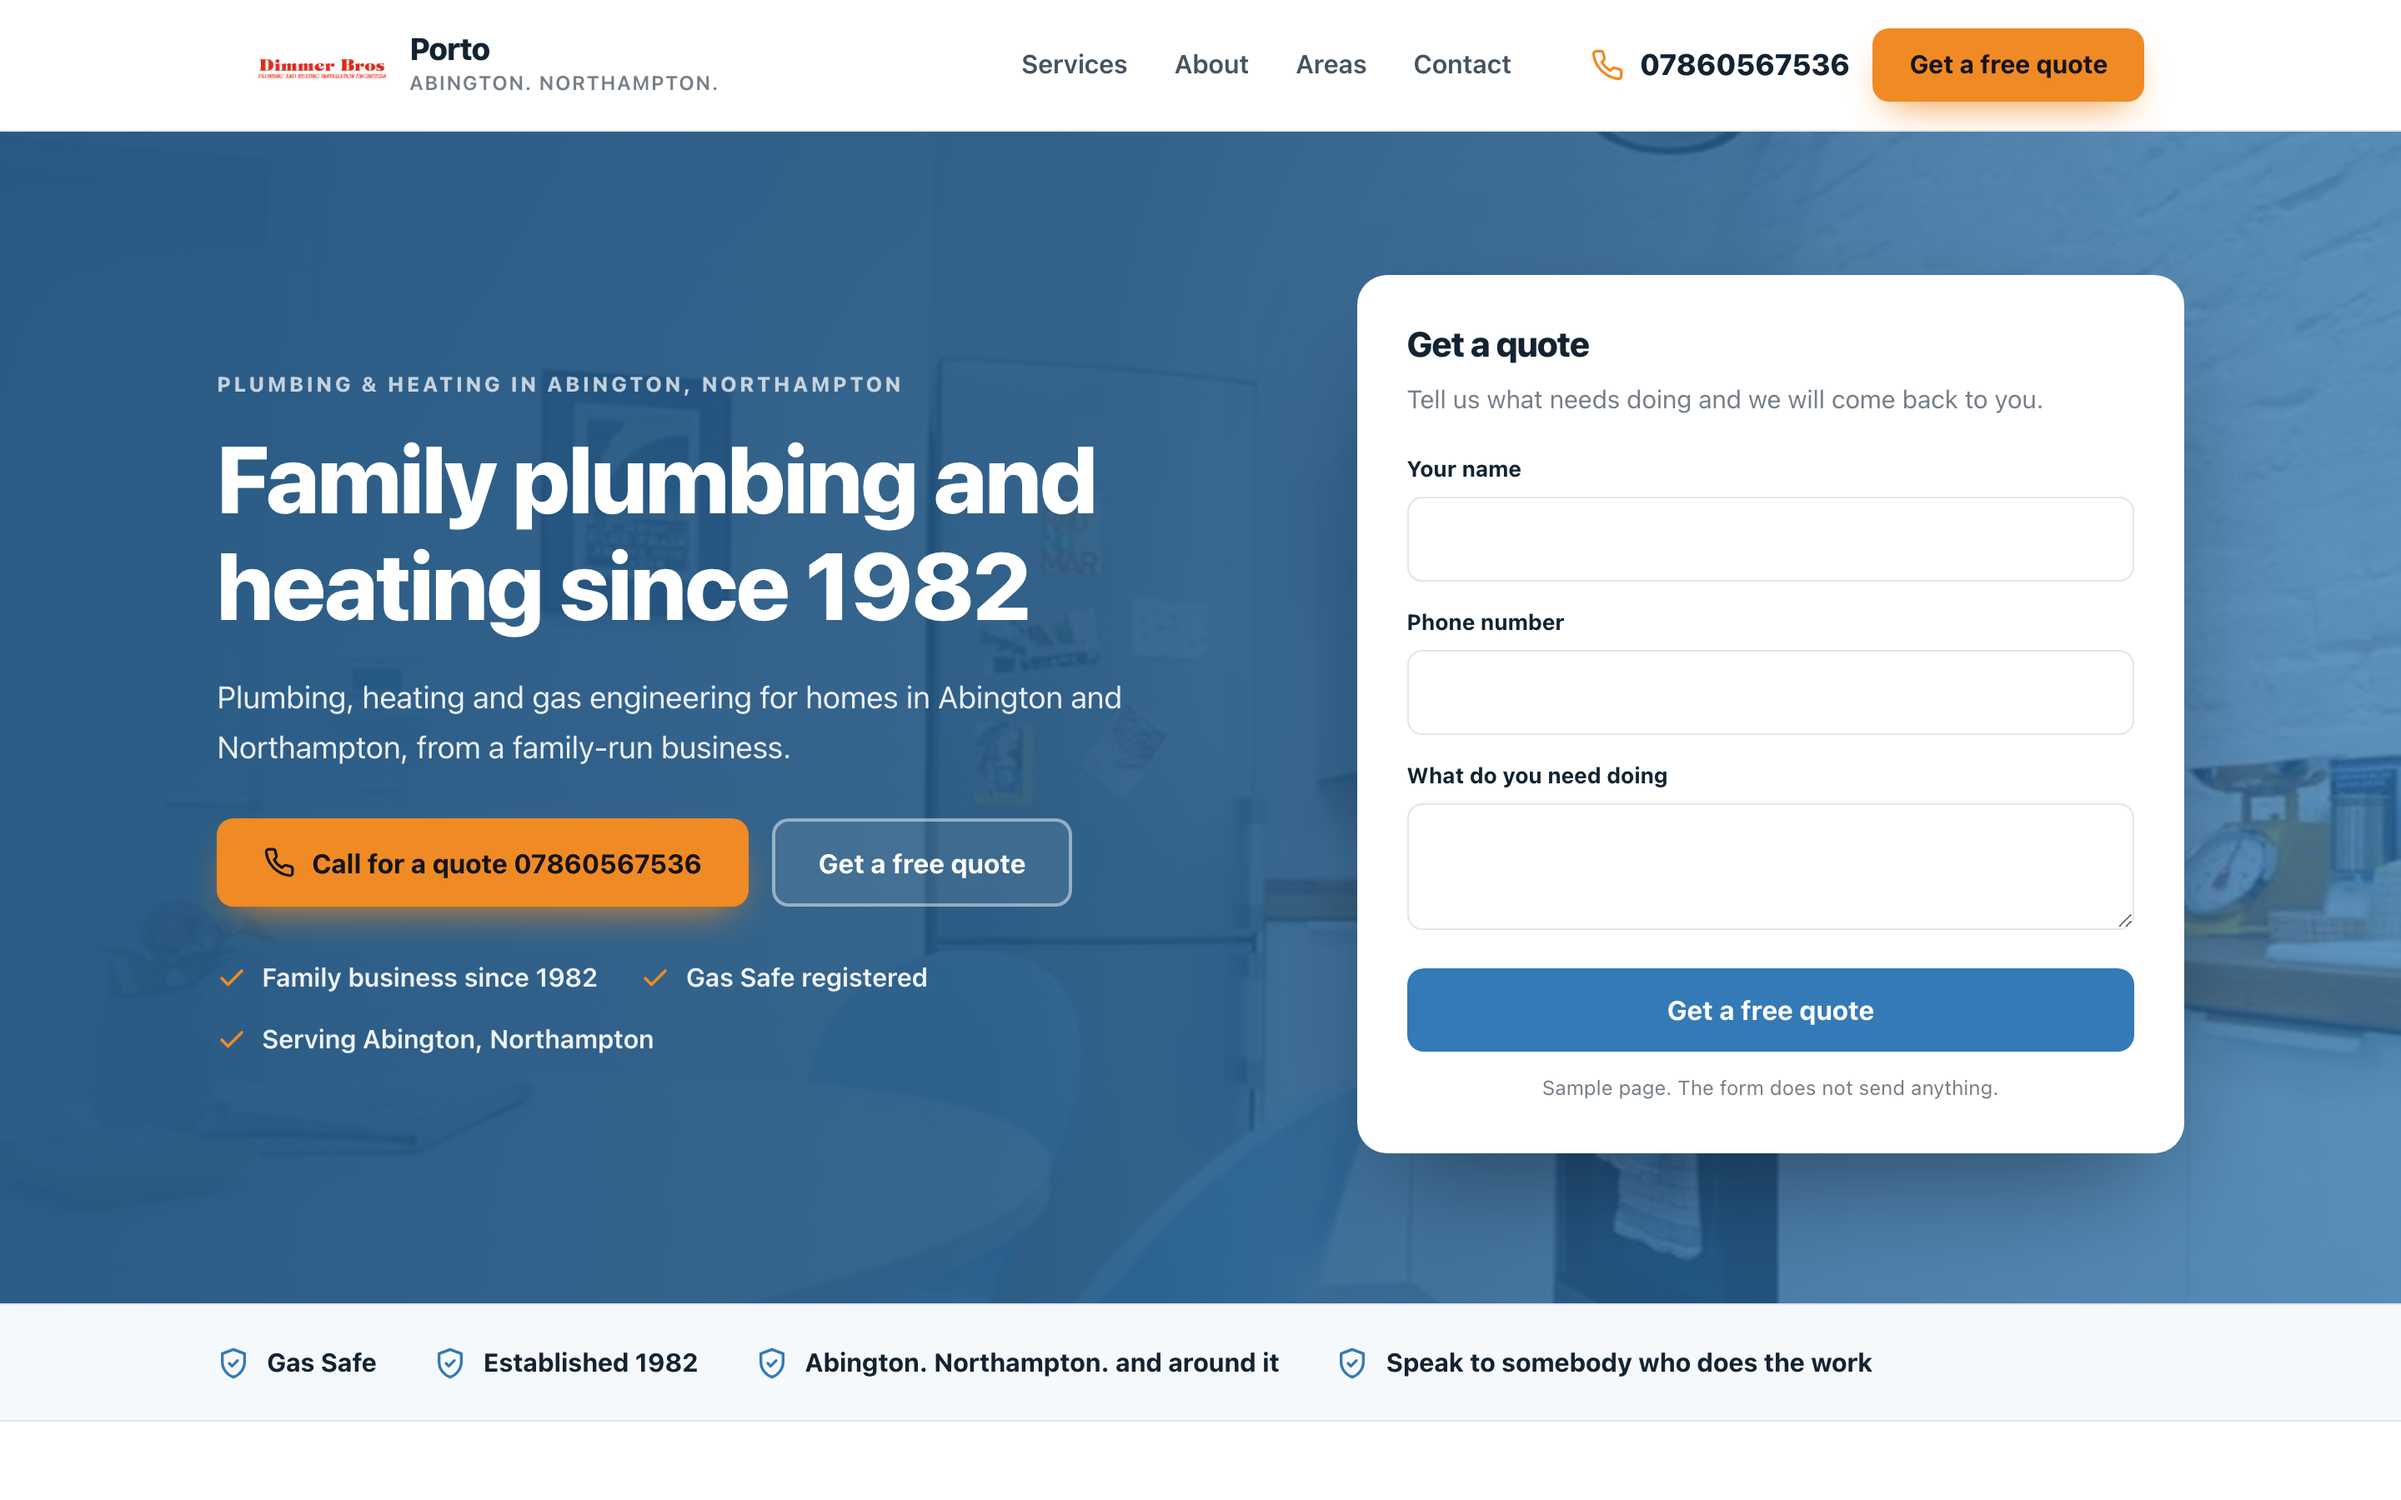
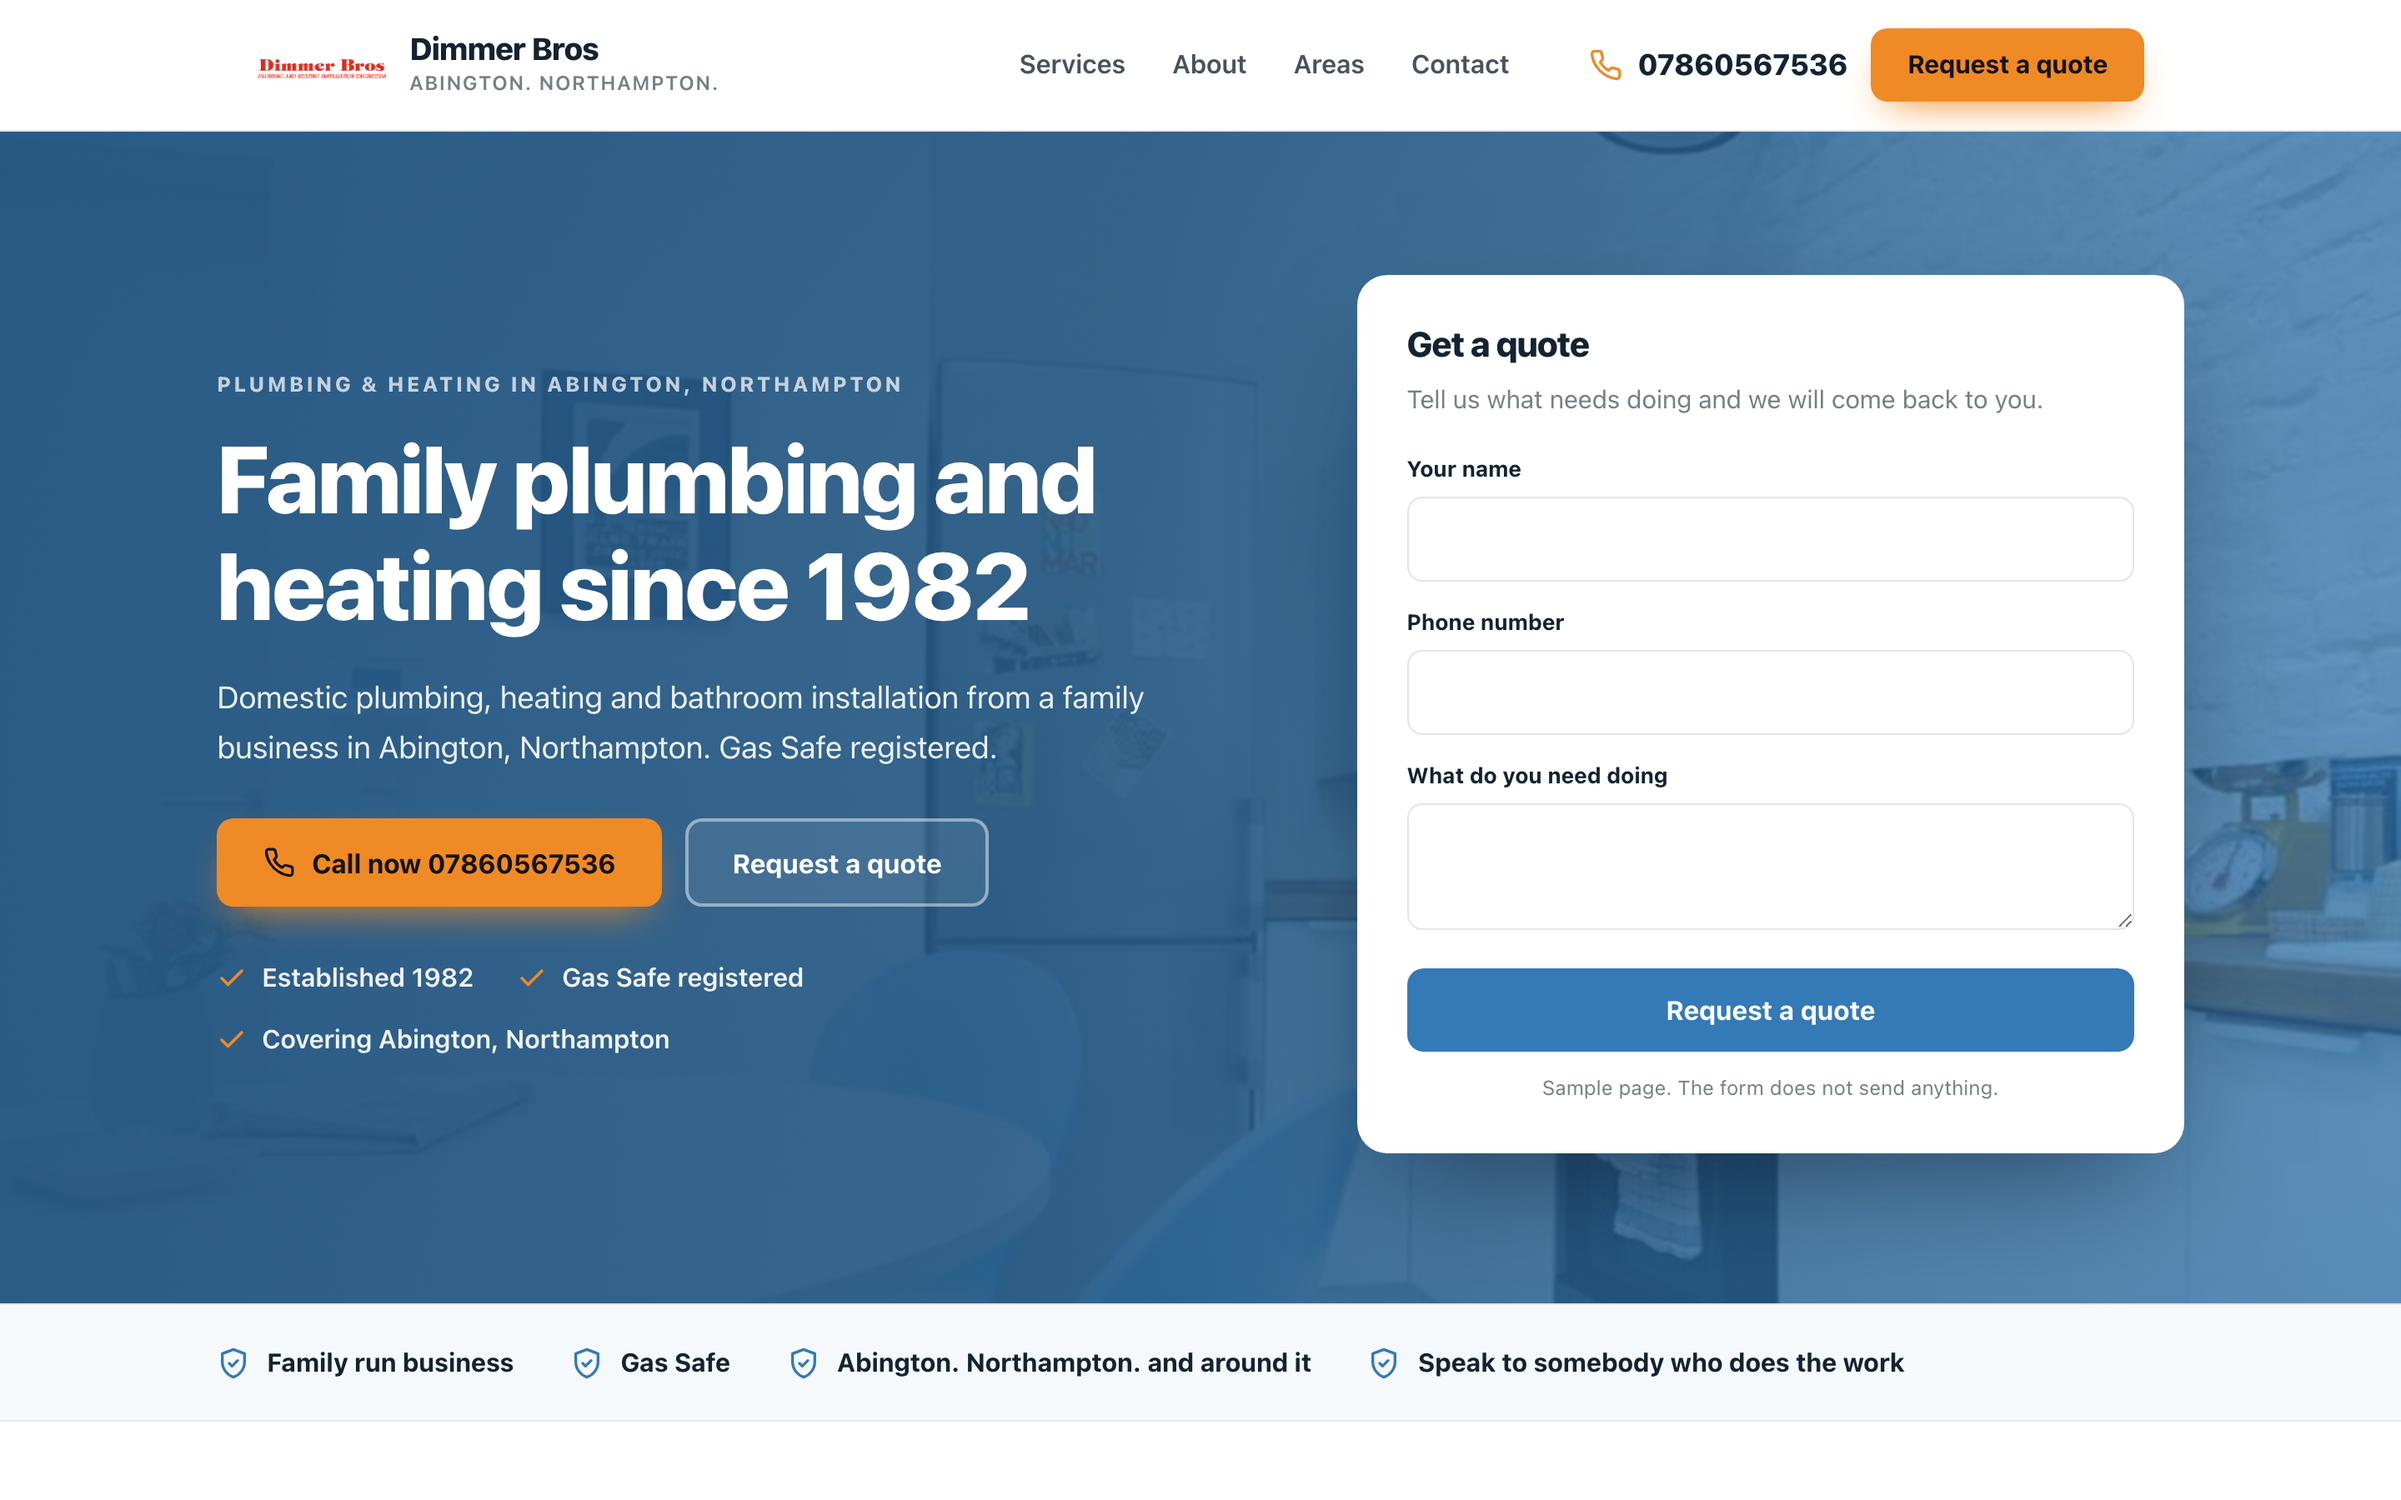
Sample homepage for Dimmer Bros

diff --git a/docs/7939d5610e/index.html b/docs/7939d5610e/index.html
@@ -4,12 +4,12 @@
 <meta charset="utf-8">
 <meta name="viewport" content="width=device-width, initial-scale=1">
 <meta name="robots" content="noindex,nofollow">
-<title>Porto sample homepage</title>
-<meta name="description" content="Plumbing, heating and gas engineering for homes in Abington and Northampton, from a family-run business.">
+<title>Dimmer Bros sample homepage</title>
+<meta name="description" content="Domestic plumbing, heating and bathroom installation from a family business in Abington, Northampton. Gas Safe registered.">
 <link rel="canonical" href="https://markygff.github.io/aso-mockups/7939d5610e/">
 <meta property="og:type" content="website">
-<meta property="og:title" content="Porto sample homepage">
-<meta property="og:description" content="Plumbing, heating and gas engineering for homes in Abington and Northampton, from a family-run business.">
+<meta property="og:title" content="Dimmer Bros sample homepage">
+<meta property="og:description" content="Domestic plumbing, heating and bathroom installation from a family business in Abington, Northampton. Gas Safe registered.">
 <meta property="og:url" content="https://markygff.github.io/aso-mockups/7939d5610e/">
 <meta property="og:image" content="http://www.plumbing-northampton.co.uk/portal/img/demos/construction/slides/homepageimage1.png"><style>
 :root{
@@ -119,8 +119,8 @@ p{margin:0}
 <header class="header">
   <div class="wrap header-in">
     <div class="brand">
-<img src="http://www.plumbing-northampton.co.uk/portal/img/demos/construction/logo-construction.png" alt="Porto logo">      <div>
-        <div class="brand-name">Porto</div>
+<img src="http://www.plumbing-northampton.co.uk/portal/img/demos/construction/logo-construction.png" alt="Dimmer Bros logo">      <div>
+        <div class="brand-name">Dimmer Bros</div>
 <div class="brand-sub">Abington. Northampton.</div>      </div>
     </div>
     <nav class="nav">
@@ -128,24 +128,24 @@ p{margin:0}
     </nav>
     <div class="header-cta">
       <span class="tel"><svg viewBox="0 0 24 24" fill="none" stroke="currentColor" stroke-width="2" stroke-linecap="round" stroke-linejoin="round" aria-hidden="true"><path d="M22 16.9v3a2 2 0 0 1-2.2 2 19.8 19.8 0 0 1-8.6-3.1 19.5 19.5 0 0 1-6-6 19.8 19.8 0 0 1-3.1-8.7A2 2 0 0 1 4.1 2h3a2 2 0 0 1 2 1.7c.1 1 .4 1.9.7 2.8a2 2 0 0 1-.5 2.1L8.1 9.9a16 16 0 0 0 6 6l1.3-1.2a2 2 0 0 1 2.1-.5c.9.3 1.8.6 2.8.7a2 2 0 0 1 1.7 2z"/></svg><span>07860567536</span></span>
-      <span class="btn btn-accent">Get a free quote</span>
+      <span class="btn btn-accent">Request a quote</span>
     </div>
   </div>
 </header>
 
 <section class="hero">
-  <div class="hero-bg"><img src="http://www.plumbing-northampton.co.uk/portal/img/demos/construction/slides/homepageimage1.png" alt="Porto at work" width="1600" height="900"></div>
+  <div class="hero-bg"><img src="http://www.plumbing-northampton.co.uk/portal/img/demos/construction/slides/homepageimage1.png" alt="Dimmer Bros at work" width="1600" height="900"></div>
   <div class="wrap hero-in">
     <div>
-      <p class="eyebrow">Plumbing &amp; heating in Abington, Northampton</p>
+      <p class="eyebrow">Plumbing &amp; Heating in Abington, Northampton</p>
       <h1>Family plumbing and heating since 1982</h1>
-      <p class="hero-sub">Plumbing, heating and gas engineering for homes in Abington and Northampton, from a family-run business.</p>
+      <p class="hero-sub">Domestic plumbing, heating and bathroom installation from a family business in Abington, Northampton. Gas Safe registered.</p>
       <div class="hero-actions">
-        <span class="btn btn-accent"><svg viewBox="0 0 24 24" fill="none" stroke="currentColor" stroke-width="2" stroke-linecap="round" stroke-linejoin="round" aria-hidden="true"><path d="M22 16.9v3a2 2 0 0 1-2.2 2 19.8 19.8 0 0 1-8.6-3.1 19.5 19.5 0 0 1-6-6 19.8 19.8 0 0 1-3.1-8.7A2 2 0 0 1 4.1 2h3a2 2 0 0 1 2 1.7c.1 1 .4 1.9.7 2.8a2 2 0 0 1-.5 2.1L8.1 9.9a16 16 0 0 0 6 6l1.3-1.2a2 2 0 0 1 2.1-.5c.9.3 1.8.6 2.8.7a2 2 0 0 1 1.7 2z"/></svg>Call for a quote 07860567536</span>
-        <span class="btn btn-ghost">Get a free quote</span>
+        <span class="btn btn-accent"><svg viewBox="0 0 24 24" fill="none" stroke="currentColor" stroke-width="2" stroke-linecap="round" stroke-linejoin="round" aria-hidden="true"><path d="M22 16.9v3a2 2 0 0 1-2.2 2 19.8 19.8 0 0 1-8.6-3.1 19.5 19.5 0 0 1-6-6 19.8 19.8 0 0 1-3.1-8.7A2 2 0 0 1 4.1 2h3a2 2 0 0 1 2 1.7c.1 1 .4 1.9.7 2.8a2 2 0 0 1-.5 2.1L8.1 9.9a16 16 0 0 0 6 6l1.3-1.2a2 2 0 0 1 2.1-.5c.9.3 1.8.6 2.8.7a2 2 0 0 1 1.7 2z"/></svg>Call now 07860567536</span>
+        <span class="btn btn-ghost">Request a quote</span>
       </div>
       <ul class="hero-bullets">
-<li><svg viewBox="0 0 24 24" fill="none" stroke="currentColor" stroke-width="2.4" stroke-linecap="round" stroke-linejoin="round" aria-hidden="true"><path d="M20 6 9 17l-5-5"/></svg><span>Family business since 1982</span></li><li><svg viewBox="0 0 24 24" fill="none" stroke="currentColor" stroke-width="2.4" stroke-linecap="round" stroke-linejoin="round" aria-hidden="true"><path d="M20 6 9 17l-5-5"/></svg><span>Gas Safe registered</span></li><li><svg viewBox="0 0 24 24" fill="none" stroke="currentColor" stroke-width="2.4" stroke-linecap="round" stroke-linejoin="round" aria-hidden="true"><path d="M20 6 9 17l-5-5"/></svg><span>Serving Abington, Northampton</span></li>      </ul>
+<li><svg viewBox="0 0 24 24" fill="none" stroke="currentColor" stroke-width="2.4" stroke-linecap="round" stroke-linejoin="round" aria-hidden="true"><path d="M20 6 9 17l-5-5"/></svg><span>Established 1982</span></li><li><svg viewBox="0 0 24 24" fill="none" stroke="currentColor" stroke-width="2.4" stroke-linecap="round" stroke-linejoin="round" aria-hidden="true"><path d="M20 6 9 17l-5-5"/></svg><span>Gas Safe registered</span></li><li><svg viewBox="0 0 24 24" fill="none" stroke="currentColor" stroke-width="2.4" stroke-linecap="round" stroke-linejoin="round" aria-hidden="true"><path d="M20 6 9 17l-5-5"/></svg><span>Covering Abington, Northampton</span></li>      </ul>
     </div>
     <div class="quote-card">
       <h3>Get a quote</h3>
@@ -153,7 +153,7 @@ p{margin:0}
       <div class="field"><label>Your name</label><input type="text" disabled></div>
       <div class="field"><label>Phone number</label><input type="tel" disabled></div>
       <div class="field"><label>What do you need doing</label><textarea disabled></textarea></div>
-      <span class="btn btn-primary">Get a free quote</span>
+      <span class="btn btn-primary">Request a quote</span>
       <p class="sample-note">Sample page. The form does not send anything.</p>
     </div>
   </div>
@@ -161,8 +161,8 @@ p{margin:0}
 
 <div class="strip">
   <div class="wrap strip-in">
+    <div class="strip-item"><svg viewBox="0 0 24 24" fill="none" stroke="currentColor" stroke-width="2" stroke-linecap="round" stroke-linejoin="round" aria-hidden="true"><path d="M12 2 4 5v6c0 5 3.4 9.4 8 11 4.6-1.6 8-6 8-11V5z"/><path d="m9 12 2 2 4-4"/></svg><span>Family run business</span></div>
     <div class="strip-item"><svg viewBox="0 0 24 24" fill="none" stroke="currentColor" stroke-width="2" stroke-linecap="round" stroke-linejoin="round" aria-hidden="true"><path d="M12 2 4 5v6c0 5 3.4 9.4 8 11 4.6-1.6 8-6 8-11V5z"/><path d="m9 12 2 2 4-4"/></svg><span>Gas Safe</span></div>
-    <div class="strip-item"><svg viewBox="0 0 24 24" fill="none" stroke="currentColor" stroke-width="2" stroke-linecap="round" stroke-linejoin="round" aria-hidden="true"><path d="M12 2 4 5v6c0 5 3.4 9.4 8 11 4.6-1.6 8-6 8-11V5z"/><path d="m9 12 2 2 4-4"/></svg><span>Established 1982</span></div>
     <div class="strip-item"><svg viewBox="0 0 24 24" fill="none" stroke="currentColor" stroke-width="2" stroke-linecap="round" stroke-linejoin="round" aria-hidden="true"><path d="M12 2 4 5v6c0 5 3.4 9.4 8 11 4.6-1.6 8-6 8-11V5z"/><path d="m9 12 2 2 4-4"/></svg><span>Abington. Northampton. and around it</span></div>
     <div class="strip-item"><svg viewBox="0 0 24 24" fill="none" stroke="currentColor" stroke-width="2" stroke-linecap="round" stroke-linejoin="round" aria-hidden="true"><path d="M12 2 4 5v6c0 5 3.4 9.4 8 11 4.6-1.6 8-6 8-11V5z"/><path d="m9 12 2 2 4-4"/></svg><span>Speak to somebody who does the work</span></div>
   </div>
@@ -172,29 +172,29 @@ p{margin:0}
   <div class="wrap">
     <div class="services-head">
       <p class="eyebrow">What we do</p>
-      <h2>Porto, Abington. Northampton.</h2>
-      <p>Plumbing, heating and gas engineering for homes in Abington and Northampton, from a family-run business.</p>
+      <h2>Dimmer Bros, Abington. Northampton.</h2>
+      <p>Domestic plumbing, heating and bathroom installation from a family business in Abington, Northampton. Gas Safe registered.</p>
     </div>
     <div class="grid">
       <article class="card">
         <div class="icon"><svg viewBox="0 0 24 24" fill="none" stroke="currentColor" stroke-width="2" stroke-linecap="round" stroke-linejoin="round" aria-hidden="true"><path d="M14.7 6.3a4 4 0 0 0 5.3 5.3l-8 8a3 3 0 0 1-4.2-4.2z"/><path d="m14.7 6.3 3-3"/></svg></div>
         <h3>Plumbing</h3>
-        <p>Domestic plumbing installations and repairs for your home.</p>
+        <p>Domestic plumbing installation, from leaking pipes to new bathrooms.</p>
       </article>
       <article class="card">
         <div class="icon"><svg viewBox="0 0 24 24" fill="none" stroke="currentColor" stroke-width="2" stroke-linecap="round" stroke-linejoin="round" aria-hidden="true"><path d="M13 2 4 14h7l-1 8 9-12h-7z"/></svg></div>
         <h3>Heating</h3>
-        <p>Boiler replacement, servicing and repairs to keep you warm.</p>
+        <p>Heating installation, servicing and repairs for your home.</p>
       </article>
       <article class="card">
         <div class="icon"><svg viewBox="0 0 24 24" fill="none" stroke="currentColor" stroke-width="2" stroke-linecap="round" stroke-linejoin="round" aria-hidden="true"><path d="M3 10.5 12 3l9 7.5"/><path d="M5 9.5V21h14V9.5"/><path d="M10 21v-6h4v6"/></svg></div>
         <h3>Gas Engineer</h3>
-        <p>Gas Safe registered engineers for safe, compliant work.</p>
+        <p>Gas Safe registered work for your heating and hot water.</p>
       </article>
       <article class="card">
         <div class="icon"><svg viewBox="0 0 24 24" fill="none" stroke="currentColor" stroke-width="2" stroke-linecap="round" stroke-linejoin="round" aria-hidden="true"><path d="M4 20 15 9"/><path d="m14 4 6 6-3 3-6-6z"/><path d="m3 15 6 6"/></svg></div>
         <h3>Bespoke Projects</h3>
-        <p>Kitchen and bathroom projects planned around your home.</p>
+        <p>Plumbing and heating work tailored to your home.</p>
       </article>
     </div>
   </div>
@@ -202,7 +202,7 @@ p{margin:0}
 
 <footer class="footer">
   <div class="wrap footer-in">
-    <span>Sample built for Porto from your public website. Not live. Tell us and we delete it.</span>
+    <span>Sample built for Dimmer Bros from your public website. Not live. Tell us and we delete it.</span>
     <span>plumbing-northampton.co.uk</span>
   </div>
 </footer>
